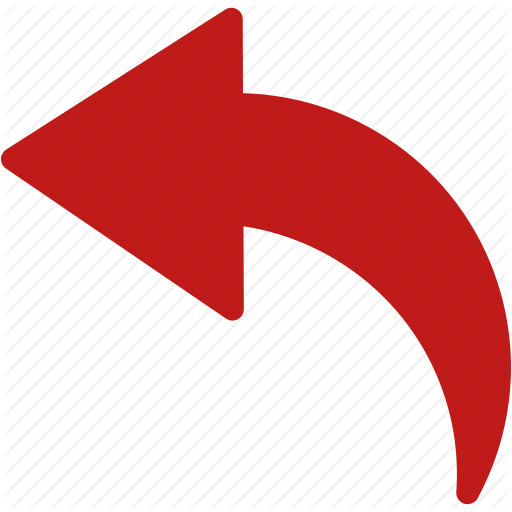
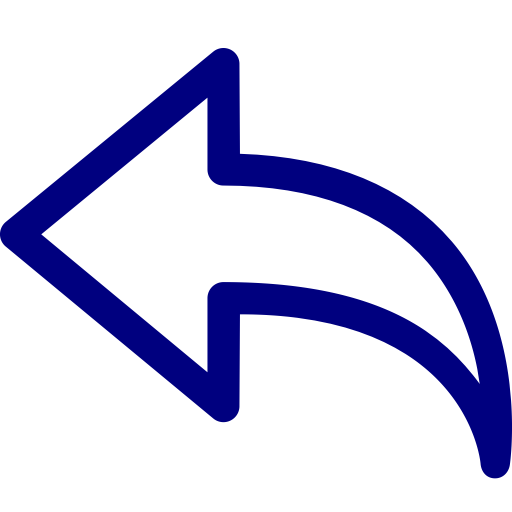
modifica tasti e combinazione colori

diff --git a/app/js/main.js b/app/js/main.js
@@ -1,3 +1,4 @@
+/*TOGLIE I SEGNALINI, CANCELLA L'ARRAY markers SE ESISTENTE E LO RICREA VUOTO PER UNA NUOVA RICERCA*/
 function clearMarkers(markers) {
     // Clear all markers
     for (var i = 0; i < markers.length; i++) {
@@ -7,7 +8,7 @@ function clearMarkers(markers) {
     delete markers;
     markers = new Array();
 }
-
+/*CREA I SEGNALINI SULLA MAPPA, STRUTTURE E ATTRAZIONI, IN BASE AL PARAMETRO PASSATO NEL CAMPO DI RICERCA*/
 function createMarker(map, markers){
 	var place = document.form_ricerca.ricerca_luogo.value;
 	if (place.substr(place.length-1, 1) == ")"){
@@ -15,57 +16,65 @@ function createMarker(map, markers){
 	}
 	$.getJSON("../api/query.php?category=accommodation&region="+place, function (data) {
 		for (i=0; i<data.length; i++){
-			coordinate = {lat: data[i].latitude, lng: data[i].longitude};
-			nome = data[i].name;
-			var marker = new google.maps.Marker({
-				position: coordinate,
-				map: map,
-				icon: 'images/bed_b.png',
-				title: data[i].name,
-				content: data[i].name+"<br/>"+data[i].description+"<br/>"+data[i]._id+"<br/>"+data[i].address+", "+data[i].city+" ("+data[i].province+")"+"<br/>"+data[i].telephone+"<br/>"+data[i].email
-			});
-			var infowindow = new google.maps.InfoWindow({ 
-				position: coordinate,
-				content: data[i].name+"<br/>"+data[i].description+"<br/>"+data[i].address+data[i].city+"("+data[i].province+")"+"<br/>"+data[i].telephone+"<br/>"+data[i].email,
-				size: new google.maps.Size(50,50)
-			});
-			google.maps.event.addListener(marker, 'click', function(event) {
-				infowindow.setContent(this.content);
-				infowindow.open(map, this);
-			});
-			markers.push(marker);
+			if(((data[i].latitude != 0)&&(data[i].longitude != 0))&&((data[i].latitude != null)&&(data[i].longitude != null))){
+				if(place == "Lombardia"){
+					coordinate = {lat: data[i].longitude, lng: data[i].latitude};
+				}else{
+					coordinate = {lat: data[i].latitude, lng: data[i].longitude};
+				}
+				nome = data[i].name;
+				var marker = new google.maps.Marker({
+					position: coordinate,
+					map: map,
+					icon: 'images/bed_b.png',
+					title: data[i].name,
+					content: data[i].name+"<br/>"+data[i].description+"<br/>"+data[i]._id+"<br/>"+data[i].address+", "+data[i].city+" ("+data[i].province+")"+"<br/>"+data[i].telephone+"<br/>"+data[i].email
+				});
+				var infowindow = new google.maps.InfoWindow({ 
+					position: coordinate,
+					content: data[i].name+"<br/>"+data[i].description+"<br/>"+data[i].address+data[i].city+"("+data[i].province+")"+"<br/>"+data[i].telephone+"<br/>"+data[i].email,
+					size: new google.maps.Size(50,50)
+				});
+				google.maps.event.addListener(marker, 'click', function(event) {
+					infowindow.setContent(this.content);
+					infowindow.open(map, this);
+				});
+				markers.push(marker);
+			}
 		}
 	});
-	/*$.getJSON("../api/query.php?category=attraction&region="+place, function (data) {
+	$.getJSON("../api/query.php?category=attraction&region="+place, function (data) {
 		for (i=0; i<data.length; i++){
-			coordinate = {lat: data[i].latitude, lng: data[i].longitude};
-			nome = data[i].name;
-			var marker = new google.maps.Marker({
-				position: coordinate,
-				map: map,
-				icon: 'images/attraction.png',
-				title: data[i].name,
-				content: data[i].name+"<br/>"+data[i].description+"<br/>"+data[i].address+", "+data[i].city+" ("+data[i].province+")"+"<br/>"+data[i].telephone+"<br/>"+data[i].email
-			});
-			var infowindow = new google.maps.InfoWindow({ 
-				position: coordinate,
-				content: data[i].name+"<br/>"+data[i].description+"<br/>"+data[i].address+data[i].city+"("+data[i].province+")"+"<br/>"+data[i].telephone+"<br/>"+data[i].email,
-				size: new google.maps.Size(50,50)
-			});
-			google.maps.event.addListener(marker, 'click', function(event) {
-				infowindow.setContent(this.content);
-				infowindow.open(map, this);
-			});
-			markers.push(marker);
+			if(((data[i].latitude != 0)&&(data[i].longitude != 0))&&((data[i].latitude != null)&&(data[i].longitude != null))){
+				coordinate = {lat: data[i].latitude, lng: data[i].longitude};
+				nome = data[i].name;
+				var marker = new google.maps.Marker({
+					position: coordinate,
+					map: map,
+					icon: 'images/attraction.png',
+					title: data[i].name,
+					content: data[i].name+"<br/>"+data[i].description+"<br/>"+data[i]._id+"<br/>"+data[i].address+", "+data[i].city+" ("+data[i].province+")"+"<br/>"+data[i].telephone+"<br/>"+data[i].email
+				});
+				var infowindow = new google.maps.InfoWindow({ 
+					position: coordinate,
+					content: data[i].name+"<br/>"+data[i].description+"<br/>"+data[i].address+data[i].city+"("+data[i].province+")"+"<br/>"+data[i].telephone+"<br/>"+data[i].email,
+					size: new google.maps.Size(50,50)
+				});
+				google.maps.event.addListener(marker, 'click', function(event) {
+					infowindow.setContent(this.content);
+					infowindow.open(map, this);
+				});
+				markers.push(marker);
+			}
 		}
-	});*/
+	});
 }
-
+/*AL CARICAMENTO DELLA PAGINA, CREA LA MAPPA, ,CREA L'EVENTO CLICK DEL TASTO CERCA,E QUELLI RELATIVI AL TASTO X*/
 $(document).ready(function() {
 	$("#x").hide();
 	var markers = new Array();
 	var map = new google.maps.Map(document.getElementById('map'), {
-	  center: {lat: 42.0, lng: 13.0},
+	  center: {lat: 42.0, lng: 12.0},
 	  zoom: 6
 	});
 	$("#ricerca_luogo").keypress(function(e) {
@@ -104,7 +113,7 @@ $(document).ready(function() {
 			async: false
 		});
 		var availableTags;
-		$.getJSON("./api/tags.php", function (data) {
+		$.getJSON("./api/query.php", function (data) {
 			availableTags = data;
 		});
 		$( "#ricerca_luogo" ).autocomplete({

diff --git a/app/css/stile.css b/app/css/stile.css
@@ -4,7 +4,7 @@
 }
 
 html, body {
-        height: 100%;
+    height: 100%;
 }
 
 #container{
@@ -13,91 +13,91 @@ html, body {
 	height: 100%;
 }
 
+/*NAVIGAZIONE*/
+#navigation{
+	background-color:#ffffff;
+	box-shadow: inset 25px 0px 30px -25px grey, inset -25px 0px 30px -25px grey;
+	position: relative;
+	width:30%;
+	height:100%;
+	float:left;
+}
+
 #ricerca{
-	display: block;
-	position:absolute;
-	z-index:20;
-	padding:0.4em;
-	left:8em;
-	top:1.3em;
 	background-color:#fafafa;
 	color: #900;
-	width: 270px;
+	width: 80%;
+	margin-top: 5%;
+	margin-left: 10%;
+	margin-right: 10%;
 	height: 40px;
 }
 
-#cerca{
-	position: relative;
-	float:right;
-	margin-left: 0px;
-	margin-top: 5px;
+[name="form_ricerca"]{
+	position:relative;
+	float: left;
+	width: 100%;
+	overflow: auto;
+}
+
+#indietro{
+	position:relative;
+	float: left;
+	width: 40px;
+	height: 40px;
+}
+
+#indietro:hover{
+	box-shadow: inset 25px 0px 30px -25px grey, inset -25px 0px 30px -25px grey;
+}
+
+#back{
 	width: 30px;
 	height: 30px;
+	margin-top: 5px;
+	margin-left: 5px;
+}
+
+#ricerca_luogo{
+	position: relative;
+	float:left;
+	height: 30px;
+	width: 225px;
+	padding-left: 5px;
+	margin-top: 5px;
+	margin-left: 20px;
 }
 
 #x{
 	float:right;
 	position: absolute;
 	display: block;
-	z-index:30;
-	margin-left: 195px;
+	margin-left: 250px;
 	margin-top: 7px;
 	width: 26px;
 	height: 26px;
 }
 
-#form_ricerca{
-	position:relative;
-	z-index:20;
-	margin-top: 20px;
-	width: 342px;
-	height: 40px;
-	margin-left: 20px;
+#cerca{
+	position: relative;
+	float:right;
+	margin-top: 5px;
+	width: 30px;
+	height: 30px;
 }
 
-#ricerca_luogo{
-	float:left;
-	height: 30px;
-	width: 225px;
-	margin-top: 5px;
+
+/*MAPPA*/
+#main{
+	overflow:auto;
+	float: right;
+	width: 70%;
+	position: relative;
+	height: 100%;
 }
 
 #map{
 	z-index: 10;
 	position: relative;
-	float: right;
-	width: 50%;
 	height: 100%;
-}
-
-#filtro{
-	z-index: 10;
-	position: relative;
-	float: left;
-	width: 50%;
-	height: 100%;
-	background-color: red;
-	box-shadow:-10px 12px 25px 0px pink inset;
-	border-radius: 0px 15px 0px 0px;
-}
-
-#indietro{
-	display: block;
-	position:absolute;
-	z-index:20;
-	padding:0.4em;
-	left:0.1em;
-	top:1.3em;
-	background-color:#fafafa;
-	color: #900;
-	width: 40px;
-	height: 40px;
-}
-
-#back{
-	z-index: 100;
-	width: 30px;
-	height: 30px;
-	margin-top: 5px;
-	margin-left: 5px;
 }

diff --git a/app/index.html b/app/index.html
@@ -9,19 +9,21 @@
 	</head>
 	<body>
 		<div id="container">
-			<div id="ricerca">
-				<form name="form_ricerca">
-					<input id="ricerca_luogo" type="text" placeholder="Cerca una città">
-					<input id="x" type="image" src="images/x.png">
-					<input id="cerca" type="image" src="images/lente.png">
-				</form>
-			</div>
-			<a href="../web/index.html">
-				<div id="indietro">
-					<input id="back" type="image" src="images/back.png">
+			<div id="navigation">
+				<div id="ricerca">
+					<form name="form_ricerca">
+						<a href="../web/index.html">
+							<div id="indietro">
+								<input id="back" type="image" src="images/back.png">
+							</div>
+						</a>
+						<input id="ricerca_luogo" type="text" placeholder="Cerca una città">
+						<input id="x" type="image" src="images/x.png">
+						<input id="cerca" type="image" src="images/lente.png">
+					</form>
 				</div>
-			</a>
-			<div id="filtro">
+				<div id="strutture"></div>
+				<div id="attrazioni"></div>
 			</div>
 			<div id="main">
 				<div id="map"></div>
@@ -38,8 +40,8 @@
 		<script src="https://code.jquery.com/ui/1.12.1/jquery-ui.js"></script>
 		
 		<!-- Scrolling Nav JavaScript -->
-		<script src="js/jquery.easing.min.js"></script>
-		<script src="js/scrolling-nav.js"></script>
+		<!--<script src="js/jquery.easing.min.js"></script>
+		<script src="js/scrolling-nav.js"></script>-->
 		
 		<!-- Main -->
 		<script src="js/main.js"></script>
